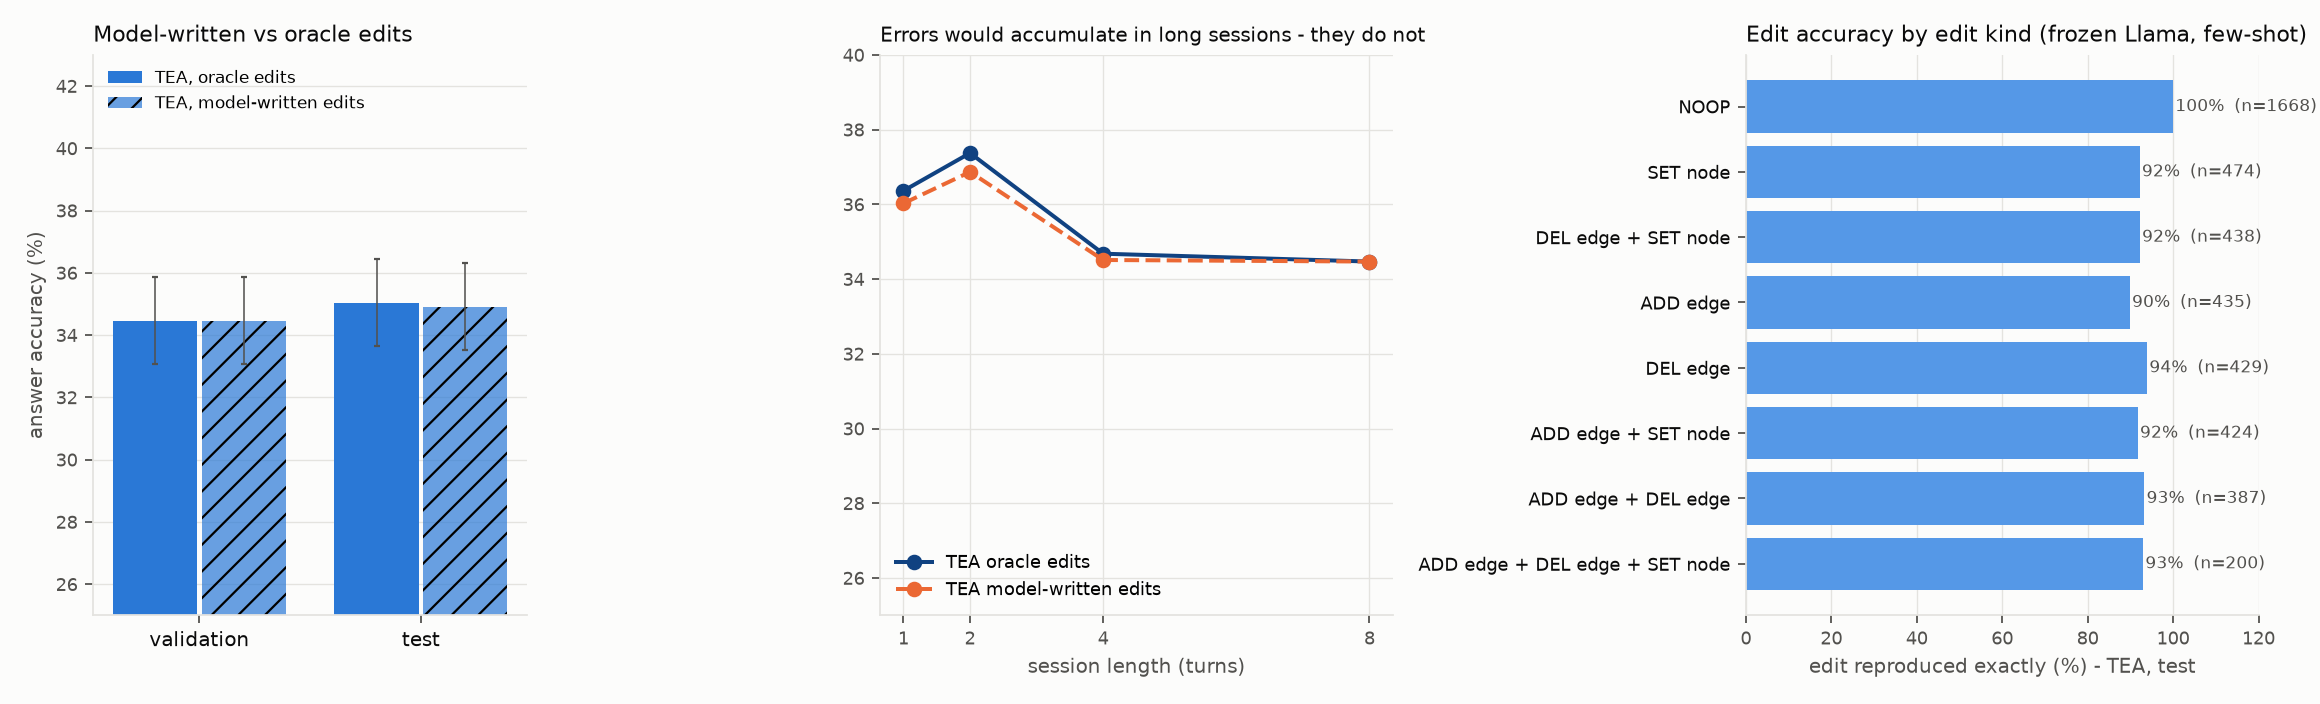
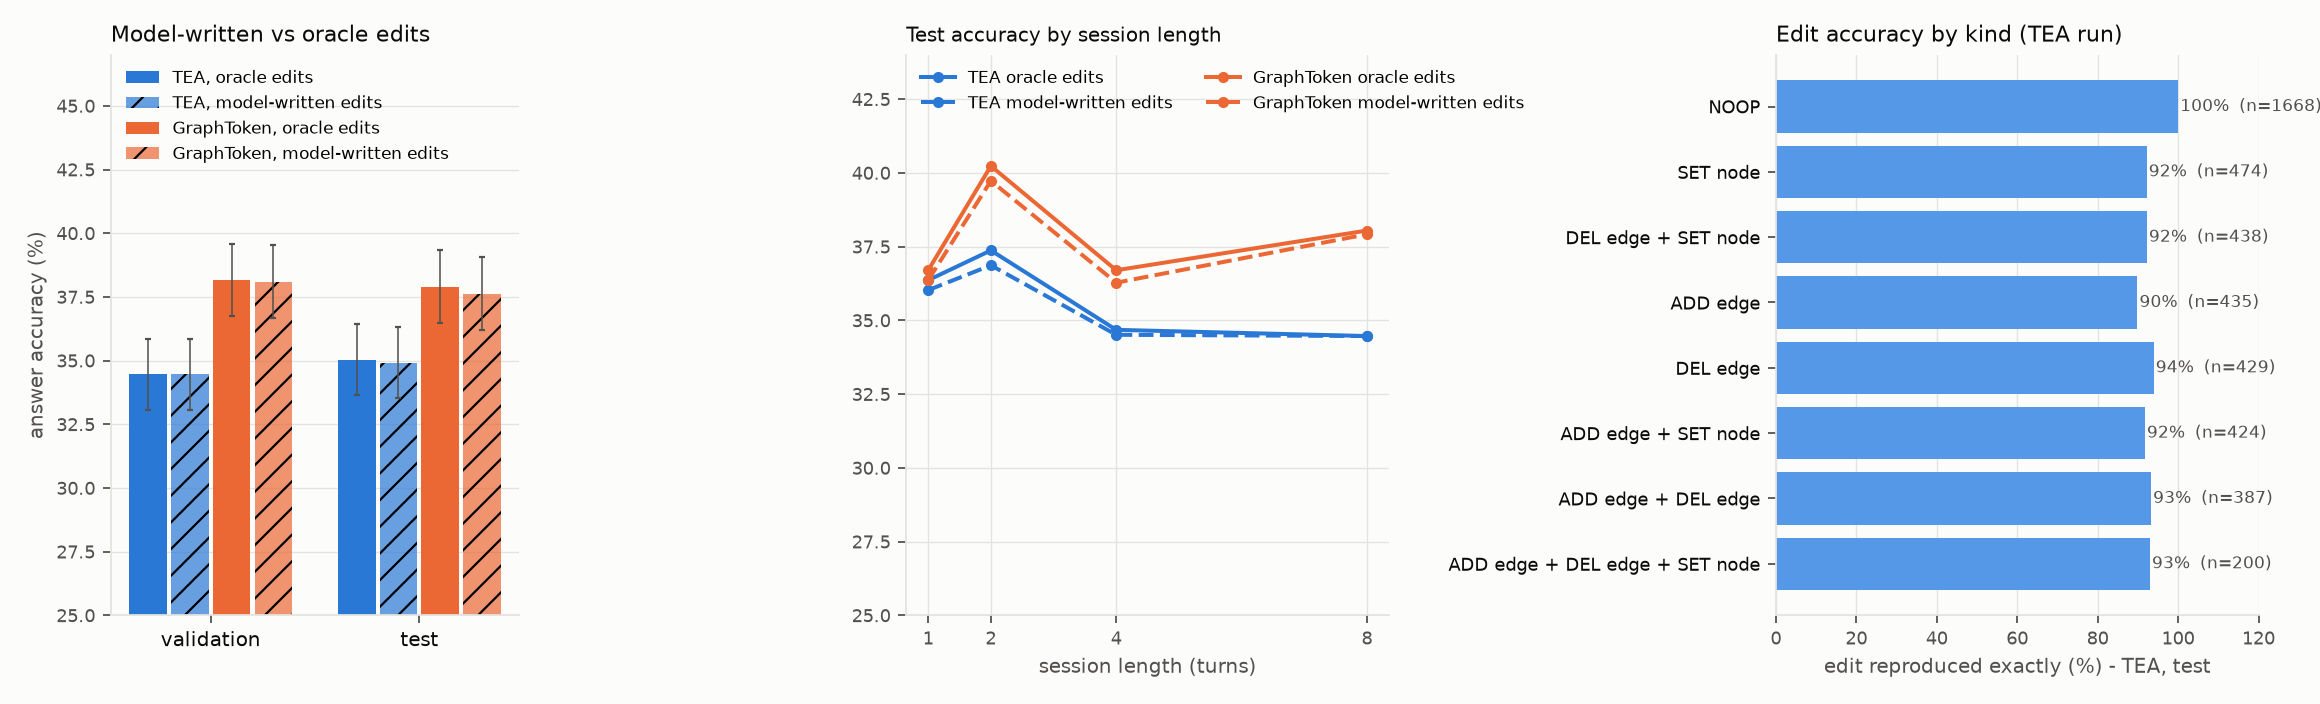
gt edit prediction

diff --git a/scripts/make_figures_v3.py b/scripts/make_figures_v3.py
@@ -350,21 +350,22 @@ def fig_predicted_edits() -> None:
                        error_kw={"ecolor": INK2, "elinewidth": 0.7, "capsize": 1.5}, label=f"{label}, {name}" if i == 0 else None)
     ax.set_xticks([0, 1])
     ax.set_xticklabels(["validation", "test"], fontsize=9, color=INK)
-    ax.set_ylim(25, 43)
+    ax.set_ylim(25, 47)
     ax.set_ylabel("answer accuracy (%)", color=INK2, fontsize=9)
     ax.set_title("Model-written vs oracle edits", color=INK, fontsize=10, loc="left")
     ax.legend(frameon=False, fontsize=7.5, loc="upper left", ncol=1)
     ax = axes[1]
     style(ax, "both")
-    tea = runs[0][1]
-    for cond, color, dash, name in (("oracle_updated_graph", "#104281", "-", "oracle edits"), ("predicted_updated_graph", "#eb6834", "--", "model-written edits")):
-        cut = tea["test"]["cuts"][f"{cond}::session_length"]
-        ax.plot([1, 2, 4, 8], [100 * cut[str(k)]["acc"] for k in (1, 2, 4, 8)], color=color, linestyle=dash, marker="o", linewidth=1.8, label=f"TEA {name}")
+    for label, data in runs:
+        for cond, dash, name in (("oracle_updated_graph", "-", "oracle edits"), ("predicted_updated_graph", "--", "model-written edits")):
+            cut = data["test"]["cuts"][f"{cond}::session_length"]
+            ax.plot([1, 2, 4, 8], [100 * cut[str(k)]["acc"] for k in (1, 2, 4, 8)], color=COLORS[label], linestyle=dash, marker="o",
+                    markersize=4, linewidth=1.8, label=f"{label} {name}")
     ax.set_xticks([1, 2, 4, 8])
-    ax.set_ylim(25, 40)
+    ax.set_ylim(25, 44)
     ax.set_xlabel("session length (turns)", color=INK2, fontsize=9)
-    ax.set_title("Errors would accumulate in long sessions - they do not", color=INK, fontsize=9, loc="left")
-    ax.legend(frameon=False, fontsize=8, loc="lower left")
+    ax.set_title("Test accuracy by session length", color=INK, fontsize=9, loc="left")
+    ax.legend(frameon=False, fontsize=7.5, loc="upper left", ncol=2)
     ax = axes[2]
     style(ax)
     if kinds:
@@ -378,7 +379,7 @@ def fig_predicted_edits() -> None:
         ax.invert_yaxis()
         ax.set_xlim(0, 120)
     ax.set_xlabel("edit reproduced exactly (%) - TEA, test", color=INK2, fontsize=9)
-    ax.set_title("Edit accuracy by edit kind (frozen Llama, few-shot)", color=INK, fontsize=10, loc="left")
+    ax.set_title("Edit accuracy by kind (TEA run)", color=INK, fontsize=10, loc="left")
     fig.tight_layout()
     save(fig, "v3_predicted_edits.png")
 

diff --git a/documents/experiments/status_report_v3.md b/documents/experiments/status_report_v3.md
@@ -25,7 +25,7 @@ stations, label skew and a text shortcut).
    +2.6 for TEA on exact2x test, and a different session's graph is worse than the correct initial graph.
 5. **Model-written edits cost nothing for TEA.** A frozen Llama with a few-shot prompt reproduces 95.2%
    of edits exactly, and accuracy with them is 34.9% against 35.0% with
-   oracle edits (test). The GraphToken predicted-edit run was still in progress when this report was generated.
+   oracle edits (test). GraphToken with model-written edits scores 37.6% on test against 37.9% with oracle edits.
 6. **A deeper GNN, a larger projector and 3x more data did not help TEA** (Section 6).
 7. **Caveats that matter** are in Section 8: one seed, unequal epochs, a graph-token position that differs from CLEGR, and
    a soft prompt that is weaker than CLEGR's.
@@ -190,8 +190,8 @@ resulting graph is re-encoded. Each run also evaluates the oracle-edit condition
 | TEA (5 epochs) | test | 34.9 | 35.0 | +0.1 | 95.2 | 88.6 |
 | TEA (3 epochs) | validation | pending | pending | | | |
 | TEA (3 epochs) | test | pending | pending | | | |
-| GraphToken (5 epochs) | validation | pending | pending | | | |
-| GraphToken (5 epochs) | test | pending | pending | | | |
+| GraphToken (5 epochs) | validation | 38.1 | 38.2 | +0.1 | 95.0 | 89.9 |
+| GraphToken (5 epochs) | test | 37.6 | 37.9 | +0.3 | 95.2 | 88.6 |
 
 Edit accuracy by kind (TEA, test):
 
